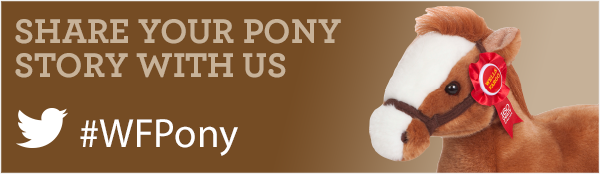
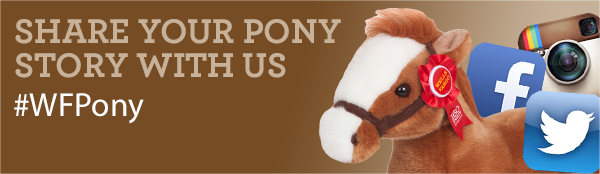
swap in newer art

diff --git a/pages/home.html b/pages/home.html
@@ -48,8 +48,8 @@
                 <section id="Banner">
                     <img class="fade" src="../images/banners/aboutWF.png"           alt="ABOUT WELLS FARGO • We’re one of the largest financial institutions in the U.S. and serve 70 million customers in 125 countries around the world.">
                     <img class="fade" src="../images/banners/exploreDubai.png"      alt="EXPLORE DUBAI • Home to over two million people, this cosmopolitan gateway between the east and west features architecture, attractions, and opportunities unlike anything you'll find elsewhere in the world.">
-                    <img class="fade" src="../images/banners/giveaway_orange.png"   alt="Want one of these? • Check into our booth via Foursquare or your LinkedIn account and receive a 3 in 1 phone charger while supplies last. You can also tweet about us via Twitter to receive your free gift.">
-                    <img class="fade" src="../images/banners/pony.png"              alt="Share your pony story with us #WFPony">
+                    <img class="fade" src="../images/banners/giveaway_ochre.jpg"    alt="Want one of these? • Check into our booth via Foursquare or your LinkedIn account and receive a 3 in 1 phone charger while supplies last. You can also tweet about us via Twitter to receive your free gift.">
+                    <img class="fade" src="../images/banners/pony.jpg"              alt="Share your pony story with us #WFPony">
                     <img class="fade" src="../images/banners/home.png"              alt="JOIN US IN DUBAI September 16 – 19, 2013">
                     <img class="fade" src="../images/banners/home.png"              alt="JOIN US IN DUBAI September 16 – 19, 2013">
                     <img class="reins large" src="../images/header/reins.png" alt="">

diff --git a/pages/booth.html b/pages/booth.html
@@ -69,7 +69,7 @@
                           href="../images/misc/photos/booth_map.pdf">View exhibition floor map</a> </p></td>
                     <td>&nbsp;</td>
                     <td><p>
-                            <img src="../images/tiles/booth_giveaway.png" width="320" height="254" alt="Check in to our booth via Foursquare or your LinkedIn account and receive a 3 in 1 phone charger while supplies last. You can also tweet about us via Twitter to receive your free gift.">
+                            <img src="../images/tiles/booth_giveaway.jpg" width="320" height="254" alt="Check in to our booth via Foursquare or your LinkedIn account and receive a 3 in 1 phone charger while supplies last. You can also tweet about us via Twitter to receive your free gift.">
                         </p></td>
                     </tr>
                     <tr>
